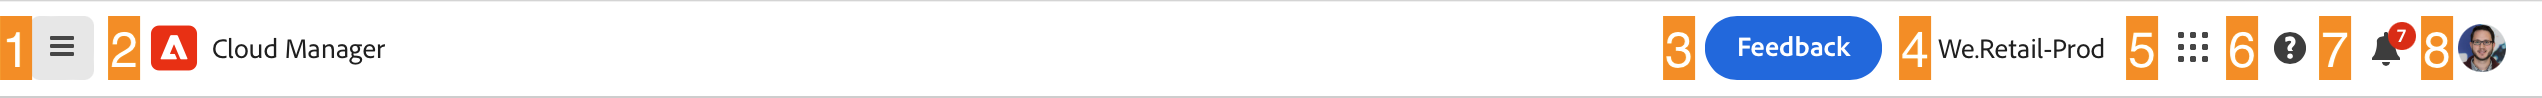
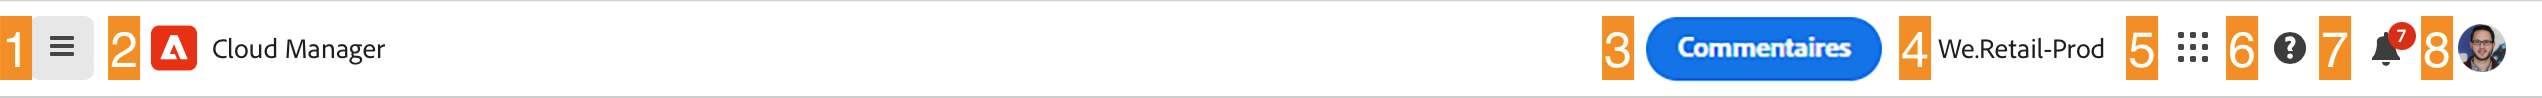
Updated by task 'AUTO_HANDOFF_1721897573765'  Changes for core/source commit https://git.corp.adobe.com/AdobeDocs/experience-manager-cloud-manager.en/commit/8f08c36aaedc05e1a9b75daf674b326cdaec6c25

Changed region(s): [[0.6216, 0.1531, 0.7459, 0.8571]]

diff --git a/help/getting-started/navigation.md b/help/getting-started/navigation.md
@@ -3,9 +3,9 @@ title: Navigation dans l’interface d’utilisation de Cloud Manager
 description: Découvrez l’organisation de l’interface d’utilisation de Cloud Manager et comment gérer vos programmes et vos environnements.
 exl-id: 9c1545ce-1c6d-417f-a6f4-fe53caef3433
 source-git-commit: d4d9a9f38c5a969f276140dca98731c670547a3d
-workflow-type: tm+mt
+workflow-type: ht
 source-wordcount: '1439'
-ht-degree: 80%
+ht-degree: 100%
 
 ---
 
@@ -28,13 +28,13 @@ Lorsque vous vous connectez à Cloud Manager sur la page [my.cloudmanager.adobe
 La console Mes programmes fournit une vue d’ensemble de tous les programmes auxquels vous avez accès dans l’organisation sélectionnée. Elle est constituée de plusieurs éléments.
 
 1. Des [Barres d’outils](#toolbars-my-programs-toolbars) pour la sélection de l’organisation, les alertes et les paramètres de compte.
-1. Onglets qui permettent de basculer l’affichage actuel de vos programmes.
-   * Vue **Accueil** (par défaut) qui sélectionne la vue **Mes programmes** avec un aperçu de tous les programmes
-   * **Licence** qui accède au tableau de bord de la licence. Le tableau de bord des licences s’applique uniquement aux programmes AEM as a Cloud Service, et non aux programmes AMS.
-      * Pour déterminer le type de service de votre programme (AMS ou AEMaaCS), consultez la [section Program Cards](#program-cards) de ce document.
-   * Notez que les onglets sont par défaut fermés et peuvent être affichés à l’aide du menu hamburger dans l’en-tête [Cloud Manager.](#cloud-manager-header)
-1. [Appel à actions et statistiques](#cta-statistics) pour un aperçu de votre activité récente
-1. [**Section Mes programmes**](#my-programs-section) avec un aperçu de tous vos programmes
+1. Des onglets qui permettent de changer l’affichage actuel de vos programmes.
+   * Vue **Accueil** (par défaut) qui sélectionne la vue **Mes programmes** avec une vue d’ensemble de tous les programmes.
+   * **Licence** qui accède au tableau de bord des licences. Le tableau de bord des licences s’applique uniquement aux programmes AEM as a Cloud Service, et non aux programmes AMS.
+      * Pour déterminer le type de service de votre programme (AMS ou AEMaaCS), consultez la [section Cartes de programme](#program-cards) de ce document.
+   * Notez que les onglets sont par défaut fermés et peuvent être affichés à l’aide du menu Hamburger dans l’[en-tête Cloud Manager](#cloud-manager-header).
+1. Des [Statistiques et des appels à l’action](#cta-statistics) pour une vue d’ensemble de votre activité récente.
+1. [**Section Mes programmes**](#my-programs-section) avec une vue d’ensemble de tous vos programmes.
 1. Des [Liens rapides](#quick-links) pour accéder facilement aux ressources connexes.
 
 >[!TIP]
@@ -51,9 +51,9 @@ La première est l’en-tête de Cloud Manager, qui est présent en permanence 
 
 ![En-tête Experience Cloud](assets/experience-cloud-header.png)
 
-1. Le menu hamburger donne accès à des onglets qui peuvent vous emmener dans des parties spécifiques d’un programme individuel ou basculer entre le tableau de bord de la licence et la console **[Mes programmes](#my-programs-console)** en fonction du contexte.
-   * Le tableau de bord des licences s’applique uniquement aux programmes AEM as a Cloud Service, et non aux programmes AMS.
-   * Pour déterminer le type de service de votre programme (AMS ou AEMaaCS), consultez la [section Program Cards](#program-cards) de ce document.
+1. Le menu Hamburger donne accès à des onglets qui peuvent vous diriger vers des parties spécifiques d’un programme individuel ou basculer entre le tableau de bord des licences et la console **[Mes programmes](#my-programs-console)** en fonction du contexte.
+   * Le tableau de bord des licences s’applique uniquement aux programmes AEM as a Cloud Service, et non aux programmes AMS.
+   * Pour déterminer le type de service de votre programme (AMS ou AEMaaCS), consultez la [section Cartes de programme](#program-cards) de ce document.
 1. Le bouton Cloud Manager vous ramène à la console Mes programmes de Cloud Manager, où que vous soyez dans Cloud Manager.
 1. Appuyez ou cliquez sur le bouton Commentaires pour envoyer des commentaires à Adobe concernant Cloud Manager.
 1. Le sélecteur d’organisation affiche l’organisation que vous utilisez actuellement pour vous connecter (dans cet exemple, Fonudation Internal). Appuyez ou cliquez pour passer à une autre organisation si votre Adobe ID est associé à plusieurs d’entre elles.
@@ -75,7 +75,7 @@ La barre d’outils des programmes fournit des liens pour basculer entre les pro
 
 ### Appels à l’action et statistiques {#cta-statistics}
 
-La section Appel à l’action et statistiques fournit des données agrégées pour votre organisation. Par exemple, si vous avez configuré vos programmes avec succès, les statistiques de vos activités au cours des 90 derniers jours peuvent s’afficher, notamment :
+La section Appels à l’action et statistiques fournit des données agrégées pour votre organisation. Par exemple, si vous avez terminé de configurer vos programmes, les statistiques de vos activités des 90 derniers jours peuvent s’afficher, incluant ce qui suit :
 
 * Le nombre de [déploiements](/help/using/code-deployment.md)
 * Le nombre de [problèmes relatifs à la qualité du code](/help/using/code-quality-testing.md) identifiés
@@ -83,9 +83,9 @@ La section Appel à l’action et statistiques fournit des données agrégées p
 
 Si vous êtes au commencement de la configuration de votre organisation, vous pouvez obtenir des conseils sur les étapes suivantes ou des ressources de documentation.
 
-### Ma section Programmes {#my-programs-section}
+### Section Mes programmes {#my-programs-section}
 
-Le contenu principal de la console Mes programmes est la section **Mes programmes** qui répertorie vos programmes sous la forme de cartes individuelles. Appuyez ou cliquez sur une vignette pour accéder à la page **Vue d’ensemble du programme** du programme pour obtenir plus d’informations sur le programme.
+Le contenu principal de la console Mes programmes est la section **Mes programmes** qui répertorie vos programmes sous la forme de cartes individuelles. Appuyez ou cliquez sur une carte pour accéder à la page **Vue d’ensemble du programme** du programme pour obtenir plus d’informations sur le programme.
 
 >[!NOTE]
 >
@@ -111,9 +111,9 @@ Chaque programme est représenté par une vignette (ou une ligne dans un tableau
 
 * Image du programme (si configurée)
 * Nom du programme
-* Type de service :
-   * **Experience Manager** pour les programmes AMS
-   * **Cloud Experience Manager** pour [ programmes AEM as a Cloud Service](https://experienceleague.adobe.com/fr/docs/experience-manager-cloud-service/content/implementing/home)
+* Type de service :
+   * **Experience Manager** pour les programmes AMS
+   * **Cloud Experience Manager** pour les [programmes AEM as a Cloud Service](https://experienceleague.adobe.com/fr/docs/experience-manager-cloud-service/content/implementing/home)
 * Statut
 * Solutions configurées
 * Date de création
@@ -137,7 +137,7 @@ La section Liens rapides vous donne accès aux ressources connexes couramment ut
 
 ## Fenêtre Vue d’ensemble du programme {#program-overview}
 
-Une fois que vous avez sélectionné un programme dans la console [**Mes programmes**,](#my-programs-console), vous accédez à l’ Aperçu du programme.
+Lorsque que vous sélectionnez un programme dans la console [**Mes programmes**](#my-programs-console), vous accédez à la vue d’ensemble du programme.
 
 ![Vue d’ensemble du programme](assets/program-overview.png)
 
